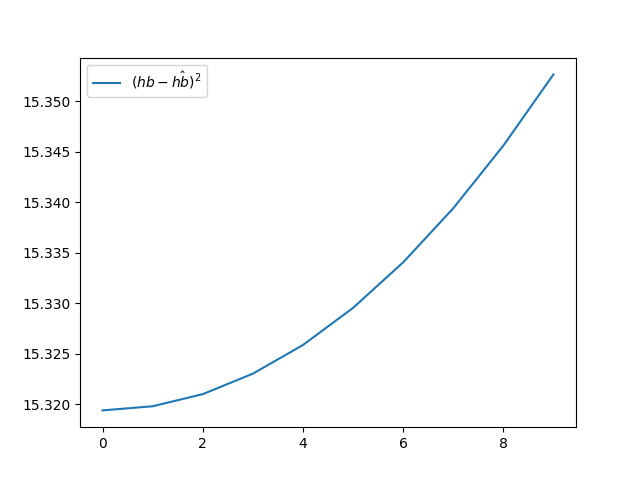
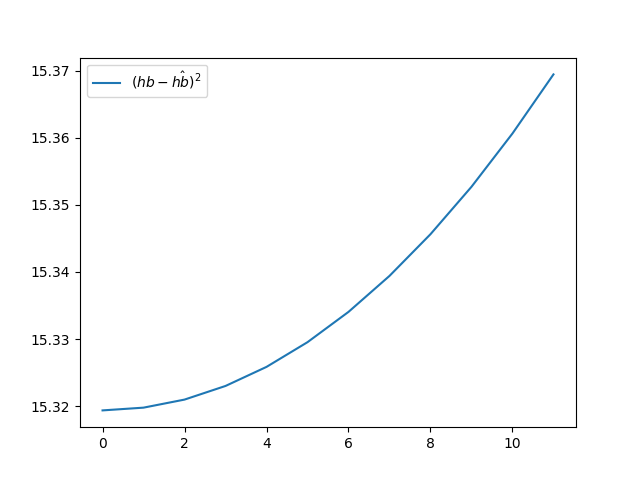
solver changed

diff --git a/pySPEC/time_marching/adjoint_swhd_1d.py b/pySPEC/time_marching/adjoint_swhd_1d.py
@@ -2,10 +2,10 @@
 
 import numpy as np
 
-from .pseudospectral import PseudoSpectral
+from .adjoint_pseudospectral import AdjPseudoSpectral
 from .. import pseudo as ps
 
-class Adjoint_SWHD_1D(PseudoSpectral):
+class Adjoint_SWHD_1D(AdjPseudoSpectral):
     ''' 1D Adjoint Shallow Water Equations
         ut_ + u ux_ + (h-hb) hx_ = 2(u-um)
         ht_ + u hx_ + g ux_  = 2(h-hm)
@@ -15,7 +15,7 @@ class Adjoint_SWHD_1D(PseudoSpectral):
     and hb is bottom topography condition.
     '''
 
-    num_fields = 7 # adoint fields u_ , h_ ; physical fields u, h ; measurements um, hm ; contour hb
+    num_fields = 2 # adoint fields u_ , h_
     dim_fields = 1
     def __init__(self, pm):
         super().__init__(pm)
@@ -23,7 +23,7 @@ class Adjoint_SWHD_1D(PseudoSpectral):
 
         # self.hb = np.zeros_like(self.grid.xx) # test flat bottom
 
-    def rkstep(self, fields, prev, oo):
+    def rkstep(self, fields, prev, oo, step, data_path, field_path):
         # Unpack
         fu_  = fields[0]
         fu_p = prev[0]
@@ -31,22 +31,24 @@ class Adjoint_SWHD_1D(PseudoSpectral):
         fh_  = fields[1]
         fh_p = prev[1]
 
-        fu  = fields[2]
-        fup = prev[2]
+        # get physical fields and measurements from T to t0, back stepping in time
+        Nt = round(self.pm.T/self.pm.dt)
+        back_step = Nt-1 - step
+        uu = np.load(f'{field_path}/uu_{back_step:04}.npy') # u field at current time step
+        hh = np.load(f'{field_path}/hh_{back_step:04}.npy') # h field at current time step
+        hb = np.load(f'{field_path}/hb.npy') # hb field at current GD iteration
 
-        fh  = fields[3]
-        fhp = prev[3]
+        fu  = self.grid.forward(uu)
+        fh  = self.grid.forward(hh)
+        fhb = self.grid.forward(hb)
 
-        fum = fields[4] # u measurments
-        fhm = fields[5] # h measurements
-        fhb = fields[6] # bottom contour
+        fum = self.grid.forward(np.load(f'{data_path}/uu_{back_step:04}.npy')) # u measurments at current time step
+        fhm = self.grid.forward(np.load(f'{data_path}/hh_{back_step:04}.npy')) # h measurements at current time step
 
         # Non-linear term
         uu_ = self.grid.inverse(fu_)
         hh_ = self.grid.inverse(fh_)
-        uu = self.grid.inverse(fu)
-        hh = self.grid.inverse(fh)
-        hb = self.grid.inverse(fhb)
+
 
         fux_ = self.grid.deriv(fu_, self.grid.kx)
         ux_ = self.grid.inverse(fux_)
@@ -68,7 +70,7 @@ class Adjoint_SWHD_1D(PseudoSpectral):
         # fh[self.grid.zero_mode] = 0.0 # zero mode for h is not null
         fh[self.grid.dealias_modes] = 0.0
 
-        return [fu_,fh_, fu, fh, fum, fhm, fhb]
+        return [fu_,fh_]
 
     def outs(self, fields, step):
         uu_ = self.grid.inverse(fields[0])

diff --git a/pySPEC/time_marching/adjoint_pseudospectral.py b/pySPEC/time_marching/adjoint_pseudospectral.py
@@ -4,9 +4,9 @@ import numpy as np
 from .solver import Solver
 from .. import pseudo as ps
 
-class PseudoSpectral(Solver, abc.ABC):
-    ''' Abstract Pseudospectral solver class
-
+class AdjPseudoSpectral(Solver, abc.ABC):
+    ''' Abstract (Ajoint) Pseudospectral solver class.
+    It is able to incorporate data fields at each step.
     All solvers must implement the following methods:
         - rkstep: Runge-Kutta step
         - balance: Energy balance
@@ -16,7 +16,7 @@ class PseudoSpectral(Solver, abc.ABC):
     def __init__(self, pm):
         super().__init__(pm)
 
-    def evolve(self, fields, T, bstep=None, sstep=None, ostep=None):
+    def evolve(self, fields, T, data_path, field_path, bstep=None, sstep=None, ostep=None ):
         ''' Evolves velocity fields to time T '''
 
         # Forward transform
@@ -27,11 +27,11 @@ class PseudoSpectral(Solver, abc.ABC):
             prev = np.copy(fields)
 
             # Time integration
-            for oo in range(self.pm.rkord, 0, -1): # example: rkord = 2 gives [2,1]
-                fields = self.rkstep(fields, prev, oo)
+            for oo in range(self.pm.rkord, 0, -1):
+                fields = self.rkstep(fields, prev, oo, step, data_path, field_path)
 
             # Write outputs
-            self.write_outputs(fields, step, bstep, sstep, ostep )
+            self.write_outputs(fields, step, bstep, sstep, ostep)
 
         # Inverse transform
         fields = [self.grid.inverse(ff) for ff in fields]

diff --git a/examples/time_marching_adjoint_swhd1D/time_marching.py b/examples/time_marching_adjoint_swhd1D/time_marching.py
@@ -18,26 +18,15 @@ pm.Lx = 2*np.pi*pm.Lx
 # Initialize solver
 grid   = ps.Grid1D(pm)
 solver = Adjoint_SWHD_1D(pm)
-NT = ((pm.T/pm.dt) /pm.ostep - 1)
-last_time = int(NT*pm.ostep)
-
-# Initial conditions physical fields
-uu = np.load(f'{pm.field_path}/uu_{last_time:04}.npy')
-hh = np.load(f'{pm.field_path}/hh_{last_time:04}.npy')
-hb = np.load(f'{pm.field_path}/hb.npy')
-
-# Measurements
-um = np.load(f'{pm.data_path}/uu_{last_time:04}.npy') # this will be um_{t}.npy
-hm = np.load(f'{pm.data_path}/hh_{last_time:04}.npy') # hm_{t}.npy
 
 # Null initial conditions for adjoint state
-uu_ = np.zeros_like(uu)
-hh_ = np.zeros_like(hh)
+uu_ = np.zeros_like(grid.xx)
+hh_ = np.zeros_like(grid.xx)
 
-fields = [uu_, hh_, uu, hh, um, hm, hb]
+fields = [uu_, hh_]
 
 # Evolve
-fields = solver.evolve(fields, pm.T, bstep=pm.bstep, ostep=pm.ostep)
+fields = solver.evolve(fields, pm.T, pm.field_path, pm.data_path, bstep=pm.bstep, ostep=pm.ostep)
 
 # Plot Balance
 bal = np.loadtxt(f'{pm.out_path}/balance.dat', unpack=True)
@@ -45,7 +34,7 @@ bal = np.loadtxt(f'{pm.out_path}/balance.dat', unpack=True)
 val = 2*pm.ostep
 out_u = np.load(f'{pm.out_path}/adjuu_{val:04}.npy')
 out_h = np.load(f'{pm.out_path}/adjhh_{val:04}.npy')
-out_hb = np.load(f'{pm.out_path}/hb.npy')
+out_hb = np.load(f'{pm.field_path}/hb.npy')
 
 f,axs = plt.subplots(ncols=3)
 

diff --git a/utils/plot_adjoint_swhd1D_gif.py b/utils/plot_adjoint_swhd1D_gif.py
@@ -11,7 +11,7 @@ from matplotlib.lines import Line2D
 from matplotlib.colors import LinearSegmentedColormap
 
 # path where to find parameters
-param_path = 'examples/time_marching_swhd1D'
+param_path = 'examples/time_marching_adjoint_swhd1D'
 # Parse JSON into an object with attributes corresponding to dict keys.
 pm = json.load(open(f'{param_path}/params.json', 'r'), object_hook=lambda d: SimpleNamespace(**d))
 pm.Lx = 2*np.pi*pm.Lx
@@ -62,8 +62,8 @@ def plot_time_lapse(field,
 
 # load frames
 steps = int(pm.T/pm.dt) # total steps of the simulation
-U = [np.load(f'{pm.out_path}/uu_{tidx:04}.npy') for tidx in range(0, steps, pm.plot_step)]
-H = [np.load(f'{pm.out_path}/hh_{tidx:04}.npy') for tidx in range(0, steps, pm.plot_step)]
+U = [np.load(f'{pm.out_path}/adjuu_{tidx:04}.npy') for tidx in range(0, steps, pm.plot_step)]
+H = [np.load(f'{pm.out_path}/adjhh_{tidx:04}.npy') for tidx in range(0, steps, pm.plot_step)]
 
 # plot gifs for u and h and save to out_path
 plot_time_lapse(U ,steps, Lx = pm.Lx , Nx = pm.Nx,

diff --git a/utils/aux.py b/utils/aux.py
@@ -1,0 +1,13 @@
+ def loss(self, step):
+        u_loss = np.sum(np.array([(np.load(f'{self.pm.data_path}/uu_{tstep:04}.npy') - np.load(f'{self.pm.field_path}/uu_{tstep:04}.npy'))**2 for tstep in range(int(self.pm.T/self.pm.dt))]))
+        h_loss = np.sum(np.array([(np.load(f'{self.pm.data_path}/hh_{tstep:04}.npy') - np.load(f'{self.pm.field_path}/hh_{tstep:04}.npy'))**2 for tstep in range(int(self.pm.T/self.pm.dt))]))
+
+        loss = [f'{self.pm.dt*step:.4e}', f'{u_loss:.6e}' , f'{h_loss:.6e}']
+        with open(f'{self.pm.out_path}/loss.dat', 'a') as output:
+            print(*loss, file=output)
+
+        hb_val = np.sum((np.load(f'{self.pm.data_path}/hb.npy') - np.load(f'{self.pm.field_path}/hb.npy'))**2)
+
+        loss = [f'{self.pm.dt*step:.4e}', f'{hb_val:.6e}']
+        with open(f'{self.pm.out_path}/hb_val.dat', 'a') as output:
+            print(*loss, file=output)

diff --git a/pySPEC/time_marching/solver.py b/pySPEC/time_marching/solver.py
@@ -50,5 +50,5 @@ class Solver(abc.ABC):
         if sstep is not None and step%sstep==0:
             self.spectra(fields, step)
 
-        if ostep is not None and step%ostep==0:
+        if (ostep is not None and step%ostep==0) or (step == round(self.pm.T/self.pm.dt)-1): # save last step as well
             self.outs(fields, step)

diff --git a/examples/time_marching_swhd1D/time_marching.py b/examples/time_marching_swhd1D/time_marching.py
@@ -33,7 +33,8 @@ hh = pm.h0 + c1 * np.exp(-((grid.xx - np.pi/c3) ** 2) / c2 ** 2)
 s1 = 0.5
 s2 = 0.3
 s3 = 1
-hb = s1*np.exp(-(grid.xx-np.pi/s3)**2/s2**2)
+# hb = s1*np.exp(-(grid.xx-np.pi/s3)**2/s2**2) # the true hb
+hb = np.zeros_like(grid.xx) # an ansatz
 
 fields = [uu, hh, hb]
 
